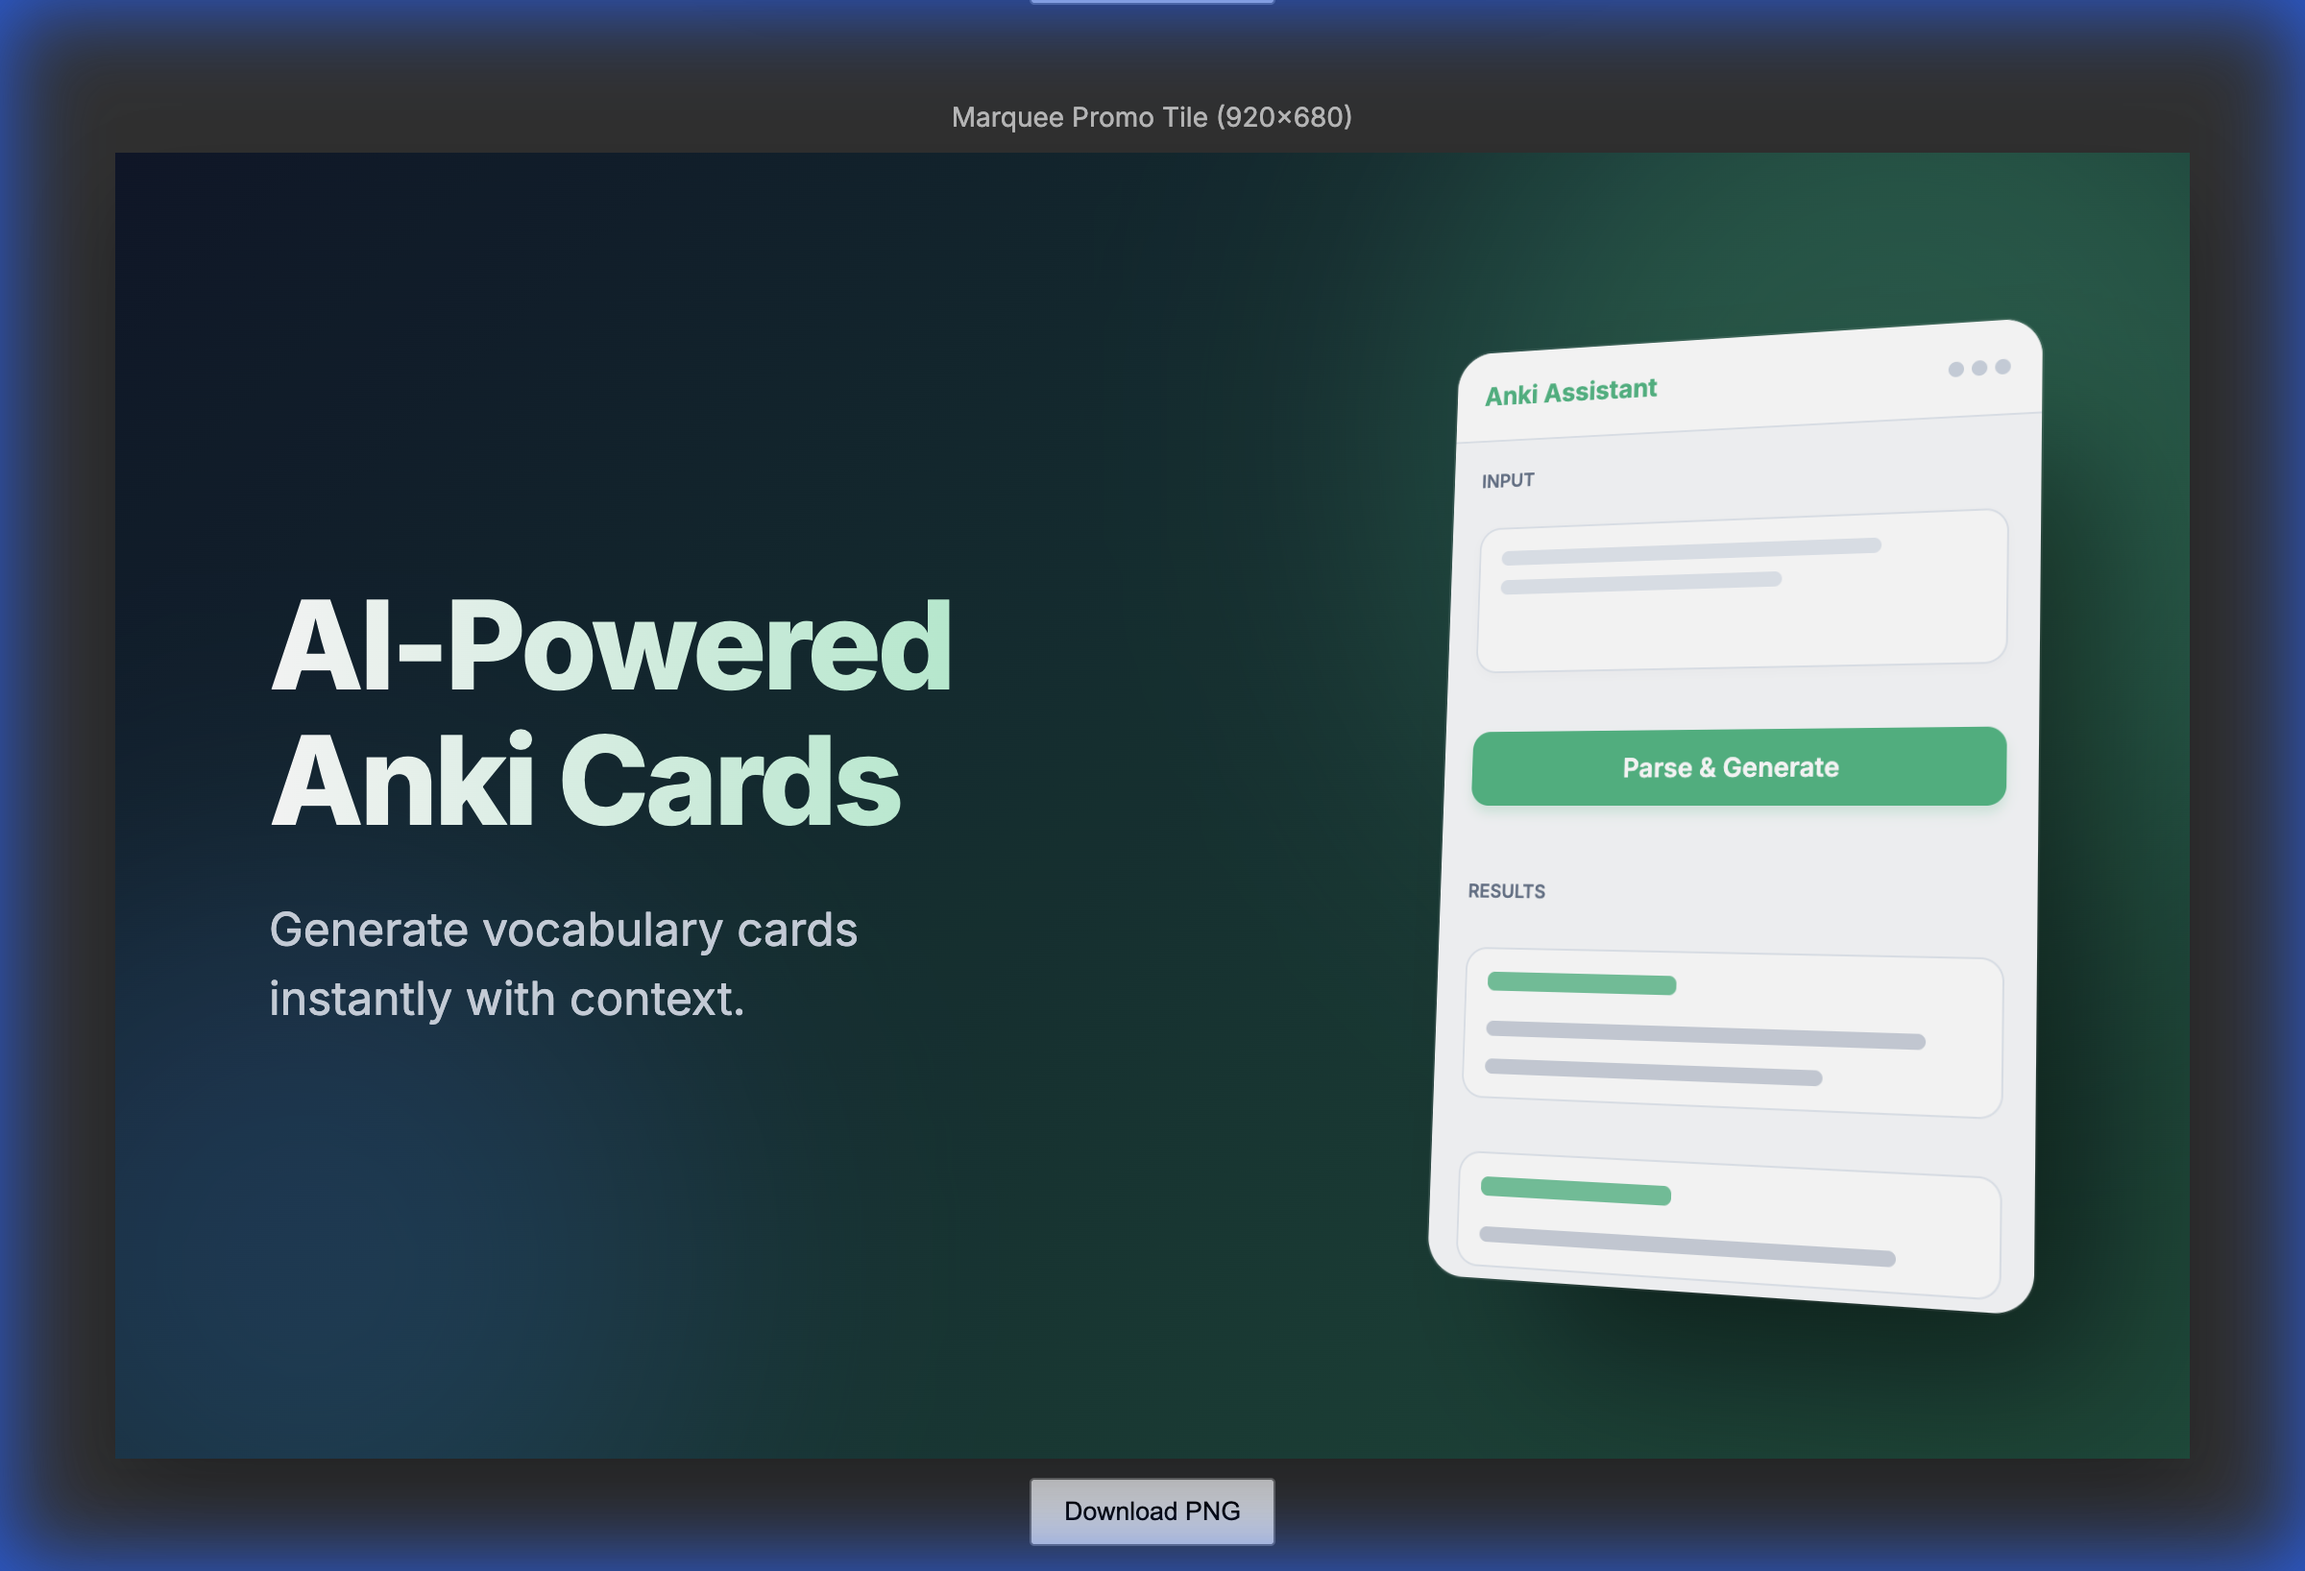
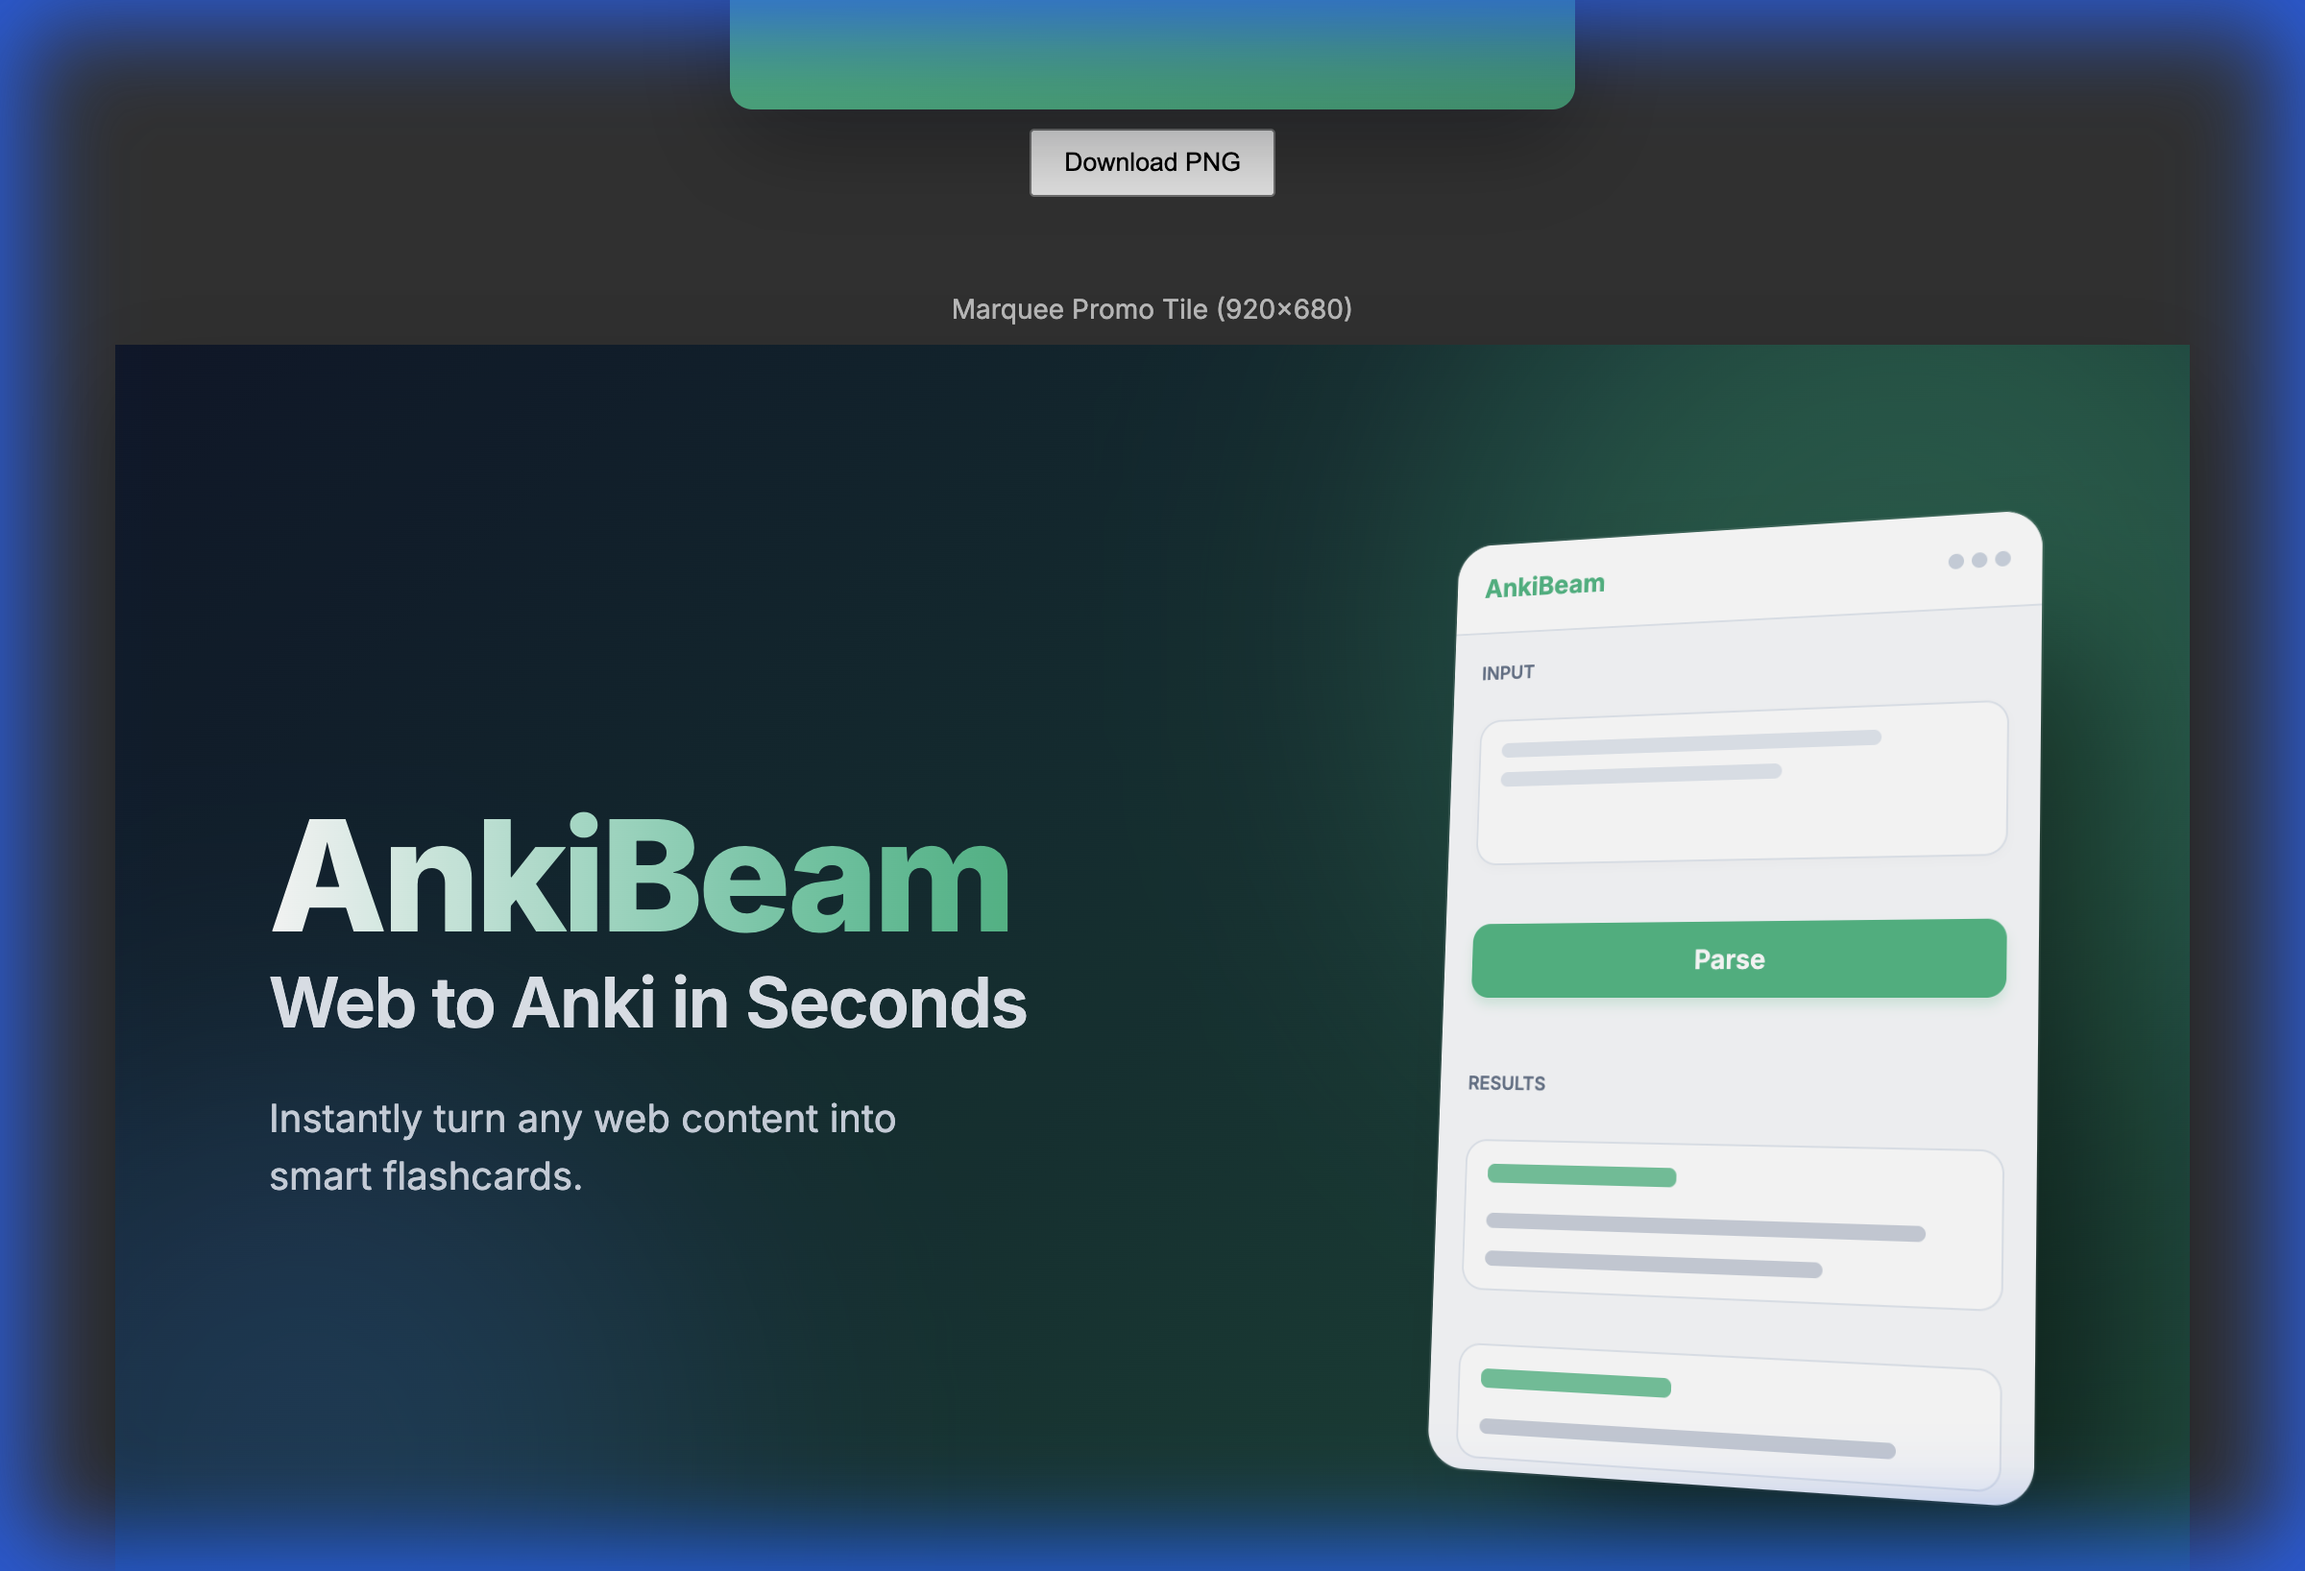
Update Marquee Promo Tile with clearer brand and slogan

diff --git a/promo-assets.html b/promo-assets.html
@@ -294,14 +294,35 @@
 				<div class="shape shape-2"></div>
 
 				<div class="marquee-content">
-					<h1>AI-Powered<br />Anki Cards</h1>
-					<p>Generate vocabulary cards instantly with context.</p>
+					<h1
+						style="
+							font-size: 80px;
+							margin-bottom: 0px;
+							background: linear-gradient(to right, #fff, #10b981);
+							-webkit-background-clip: text;
+							-webkit-text-fill-color: transparent;
+						">
+						AnkiBeam
+					</h1>
+					<h2
+						style="
+							font-size: 36px;
+							color: #e2e8f0;
+							margin: 0 0 24px 0;
+							font-weight: 600;
+							letter-spacing: -0.02em;
+						">
+						Web to Anki in Seconds
+					</h2>
+					<p style="font-size: 20px; color: #cbd5e1; max-width: 90%">
+						Instantly turn any web content into smart flashcards.
+					</p>
 				</div>
 
 				<div class="ui-mockup-wrapper">
 					<div class="ui-mockup">
 						<div class="mock-header">
-							<span class="mock-title">Anki Assistant</span>
+							<span class="mock-title">AnkiBeam</span>
 							<div class="mock-dots" style="display: flex; gap: 4px">
 								<div class="mock-dot"></div>
 								<div class="mock-dot"></div>
@@ -322,9 +343,7 @@
 								<div class="mock-input-line"></div>
 								<div class="mock-input-line-2" style="margin-top: 8px"></div>
 							</div>
-							<div class="mock-btn" style="margin-top: 16px">
-								Parse & Generate
-							</div>
+							<div class="mock-btn" style="margin-top: 16px">Parse</div>
 
 							<div
 								style="
